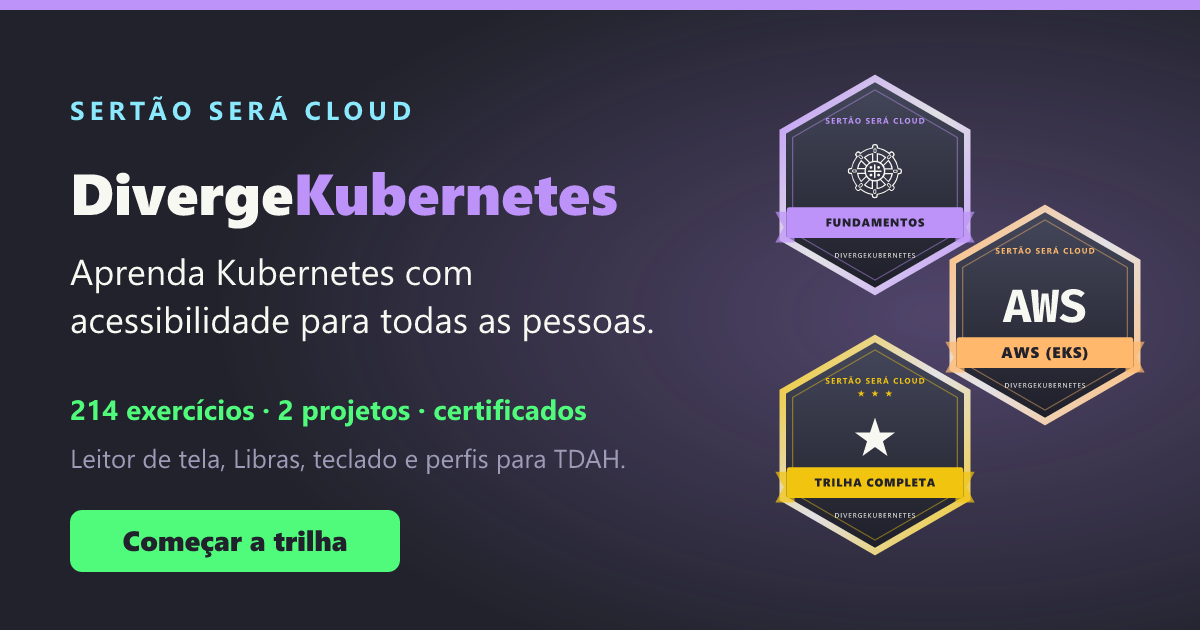
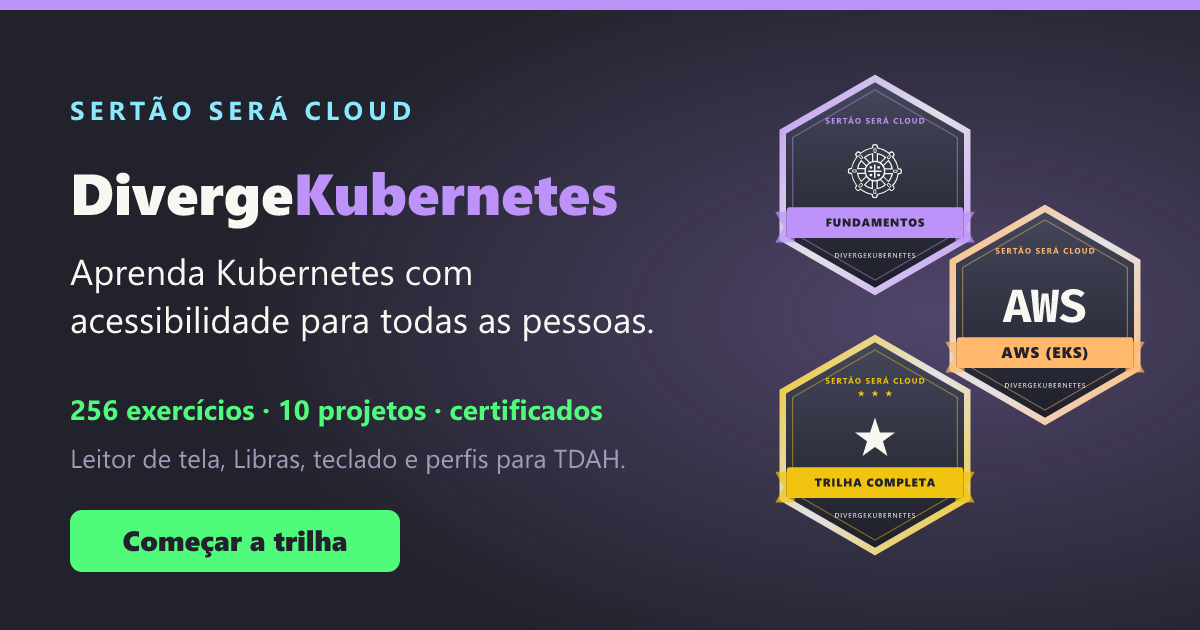
chore: versão 0.7.0, carga horária do Multi-Cloud (4 h) e final (128 h)

Changed region(s): [[0.2158, 0.6333, 0.5242, 0.6937], [0.0617, 0.6333, 0.0925, 0.6635]]

diff --git a/public/badge/final/index.html b/public/badge/final/index.html
@@ -4,11 +4,11 @@
   <meta charset="utf-8">
   <meta name="viewport" content="width=device-width, initial-scale=1">
   <title>Certificado: Especialista Kubernetes: Trilha Completa · Sertão será cloud</title>
-  <meta name="description" content="Certificado de conclusão emitido pela Sertão será cloud. Carga horária: 127 horas. Habilidades: Fundamentos, Recursos Avançados, AWS (EKS), Azure (AKS), Projetos Práticos.">
+  <meta name="description" content="Certificado de conclusão emitido pela Sertão será cloud. Carga horária: 128 horas. Habilidades: Fundamentos, Recursos Avançados, AWS (EKS), Azure (AKS), Projetos Práticos.">
   <meta property="og:type" content="website">
   <meta property="og:site_name" content="Sertão será cloud">
   <meta property="og:title" content="Certificado: Especialista Kubernetes: Trilha Completa · Sertão será cloud">
-  <meta property="og:description" content="Certificado de conclusão emitido pela Sertão será cloud. Carga horária: 127 horas. Habilidades: Fundamentos, Recursos Avançados, AWS (EKS), Azure (AKS), Projetos Práticos.">
+  <meta property="og:description" content="Certificado de conclusão emitido pela Sertão será cloud. Carga horária: 128 horas. Habilidades: Fundamentos, Recursos Avançados, AWS (EKS), Azure (AKS), Projetos Práticos.">
   <meta property="og:url" content="https://sertaoseracloud.github.io/kubernetes-playground/badge/final/">
   <meta property="og:image" content="https://sertaoseracloud.github.io/kubernetes-playground/badges/final-card.png">
   <meta property="og:image:width" content="1200">

diff --git a/public/badge/projeto-multicloud/index.html b/public/badge/projeto-multicloud/index.html
@@ -4,11 +4,11 @@
   <meta charset="utf-8">
   <meta name="viewport" content="width=device-width, initial-scale=1">
   <title>Badge: Projeto: Deploy Multi-Cloud · Sertão será cloud</title>
-  <meta name="description" content="Badge digital emitido pela Sertão será cloud. Carga horária: 3 horas. Habilidades: Manifestos genéricos, Kustomize overlays, CI/CD multi-cluster.">
+  <meta name="description" content="Badge digital emitido pela Sertão será cloud. Carga horária: 4 horas. Habilidades: Manifestos genéricos, Kustomize overlays, CI/CD multi-cluster, Entrada no EKS (ALB) e no AKS (App Routing).">
   <meta property="og:type" content="website">
   <meta property="og:site_name" content="Sertão será cloud">
   <meta property="og:title" content="Badge: Projeto: Deploy Multi-Cloud · Sertão será cloud">
-  <meta property="og:description" content="Badge digital emitido pela Sertão será cloud. Carga horária: 3 horas. Habilidades: Manifestos genéricos, Kustomize overlays, CI/CD multi-cluster.">
+  <meta property="og:description" content="Badge digital emitido pela Sertão será cloud. Carga horária: 4 horas. Habilidades: Manifestos genéricos, Kustomize overlays, CI/CD multi-cluster, Entrada no EKS (ALB) e no AKS (App Routing).">
   <meta property="og:url" content="https://sertaoseracloud.github.io/kubernetes-playground/badge/projeto-multicloud/">
   <meta property="og:image" content="https://sertaoseracloud.github.io/kubernetes-playground/badges/projeto-multicloud-card.png">
   <meta property="og:image:width" content="1200">

diff --git a/src/novidades.js b/src/novidades.js
@@ -10,6 +10,24 @@ export const REPOSITORIO = 'https://github.com/sertaoseracloud/kubernetes-playgr
 /** Releases, da mais nova para a mais antiga. Escritas para quem usa o site, sem jargão. */
 export const RELEASES = [
   {
+    versao: '0.7.0',
+    data: '2026-10-19',
+    titulo: 'Oito projetos novos, de ponta a ponta',
+    resumo: 'Um módulo novo com oito projetos completos, cada um com cinco etapas que partem do que a anterior deixou no cluster. O projeto Multi-Cloud também ganhou as duas etapas que faltavam.',
+    grupos: [
+      {
+        titulo: '🏗 Projetos práticos',
+        itens: [
+          'Blog com banco de dados, pipeline de dados em lote, segurança em camadas, lançamento de versão sem susto, uma API que avisa antes de cair, entrega com GitOps, loja na AWS e loja na Azure.',
+          'Cada projeto começa com uma lição que mostra o desenho do que você vai construir.',
+          'Cada etapa diz o que já está no cluster e o que falta, e tem casos ocultos que rodam quando você clica em ⬆ Enviar.',
+          'O projeto Multi-Cloud agora tem 5 etapas: a entrada no EKS e no AKS fecham o projeto. O certificado dele passou a valer 4 horas, e o da trilha completa, 128 horas.',
+          'O módulo de projetos práticos é extra, como a comparação com o Terraform: ele não muda os certificados que você já tem.',
+        ],
+      },
+    ],
+  },
+  {
     versao: '0.6.0',
     data: '2026-10-19',
     titulo: 'Kubernetes na Azure de ponta a ponta',

diff --git a/src/certificados.js b/src/certificados.js
@@ -54,14 +54,14 @@ export const CERTIFICADOS = {
   },
   'projeto-multicloud': {
     titulo: 'Projeto: Deploy Multi-Cloud',
-    cargaHoraria: 3,
+    cargaHoraria: 4,
     resumo: 'construiu deploy multi-cloud com abstrações cloud-agnostic',
     hashtags: ['Kubernetes', 'Multi-Cloud', 'AWS', 'Azure'],
-    conteudos: ['Manifestos genéricos', 'Kustomize overlays', 'CI/CD multi-cluster'],
+    conteudos: ['Manifestos genéricos', 'Kustomize overlays', 'CI/CD multi-cluster', 'Entrada no EKS (ALB) e no AKS (App Routing)'],
   },
   final: {
     titulo: 'Especialista Kubernetes: Trilha Completa',
-    cargaHoraria: 127,
+    cargaHoraria: 128,
     resumo: 'concluiu a trilha completa de Kubernetes, dos fundamentos ao multi-cloud',
     hashtags: ['Kubernetes', 'K8s', 'AWS', 'Azure', 'DevOps', 'Cloud Native'],
     conteudos: ['Fundamentos', 'Recursos Avançados', 'AWS (EKS)', 'Azure (AKS)', 'Projetos Práticos'],
